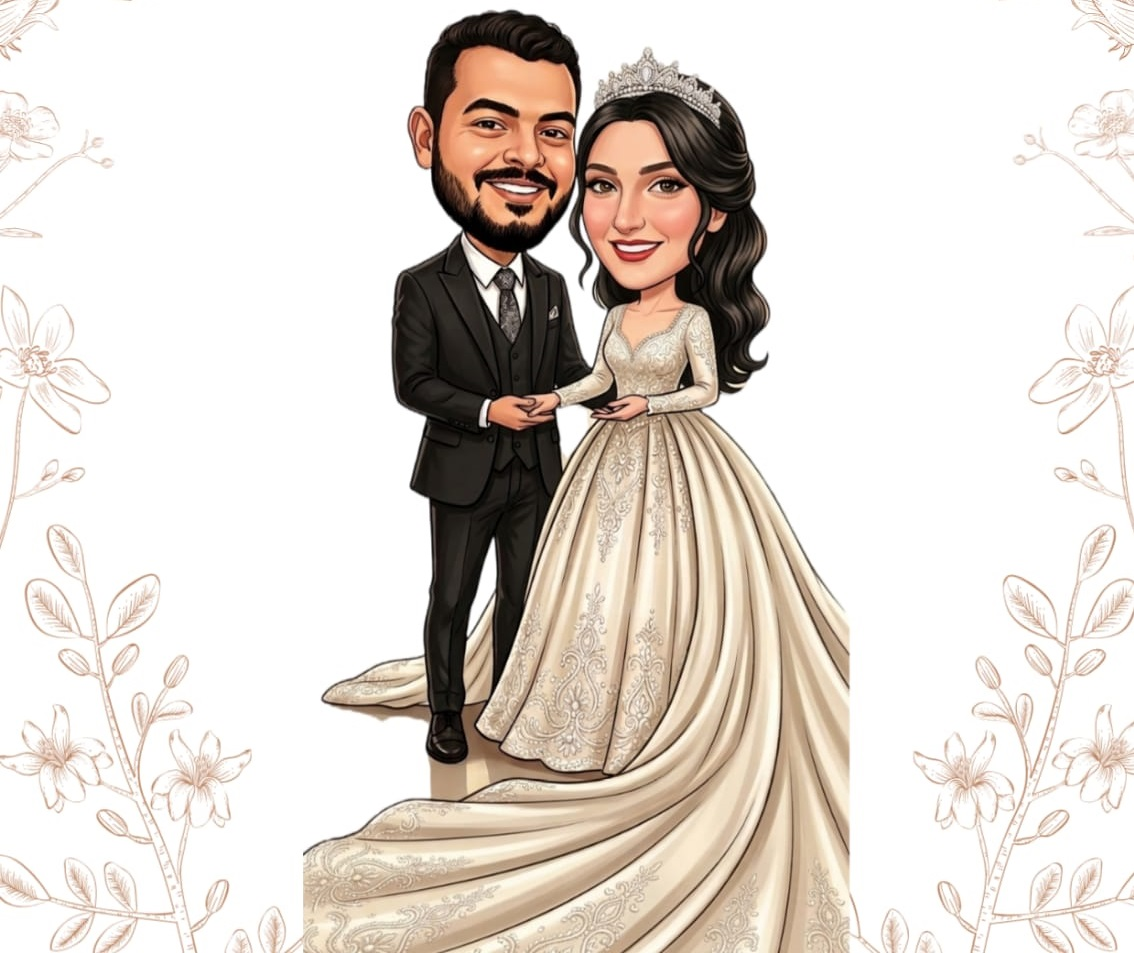
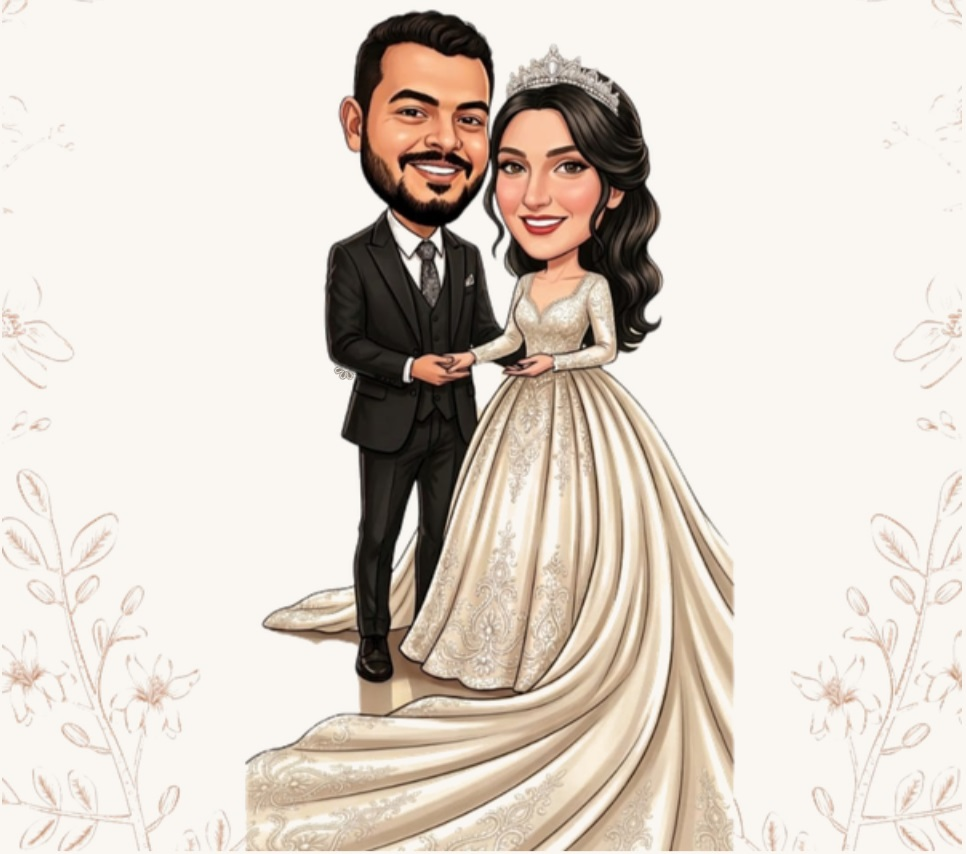
Add files via upload

diff --git a/wedding-invitation.html b/wedding-invitation.html
@@ -500,13 +500,11 @@ function addToCalendar(e){
     if (/iPad|iPhone|iPod/.test(ua)) {
         window.location.href = "wedding.ics";
     }
-    else if (/Android/i.test(ua)) {
+    else {
         window.location.href =
         "https://calendar.google.com/calendar/render?action=TEMPLATE&text=حفل+زفاف+أحمد+ونهى&dates=20260731T160000Z/20260731T200000Z&location=قاعة+ليلة+العمر+المريوطية";
     }
-    else {
-        window.location.href = "wedding.ics";
-    }
+
 }
 </script>
 